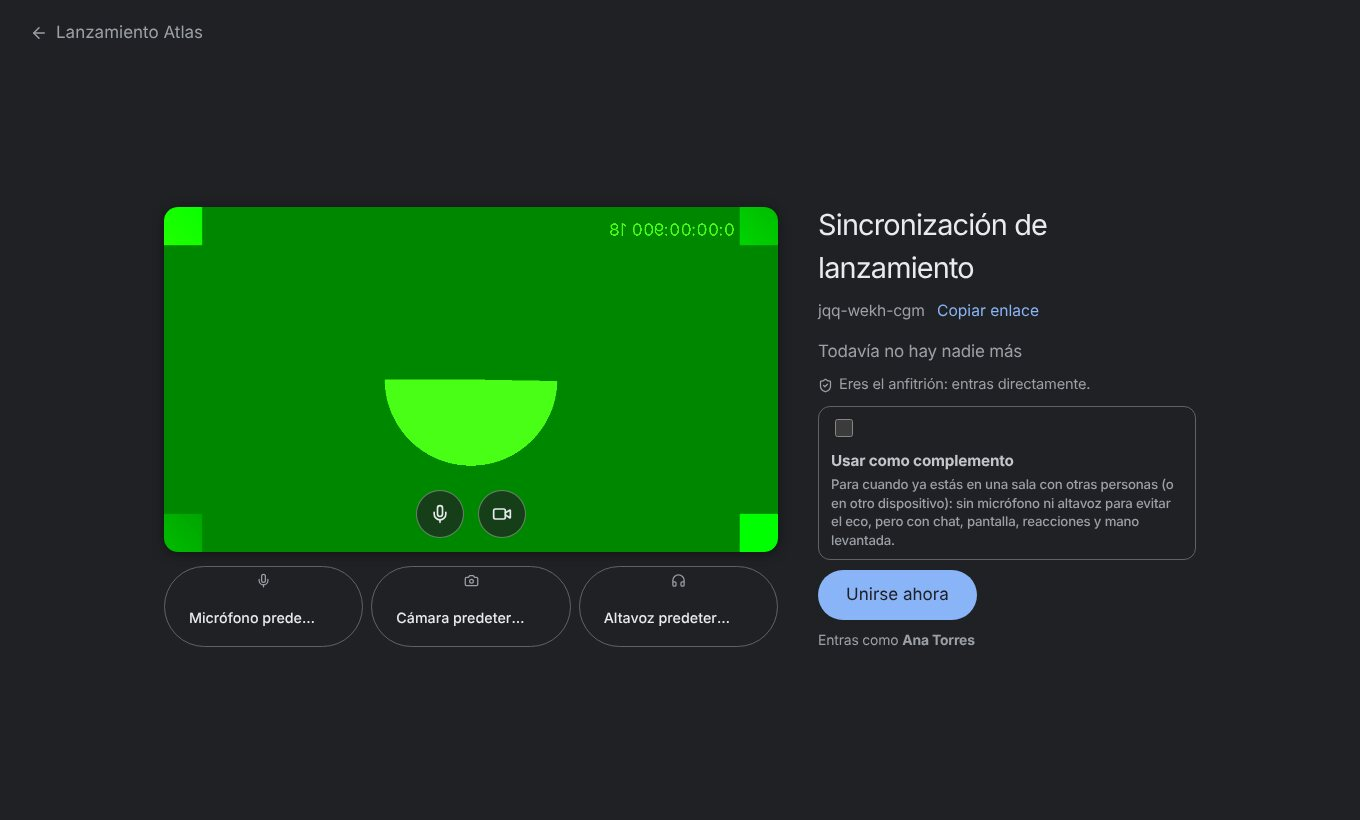
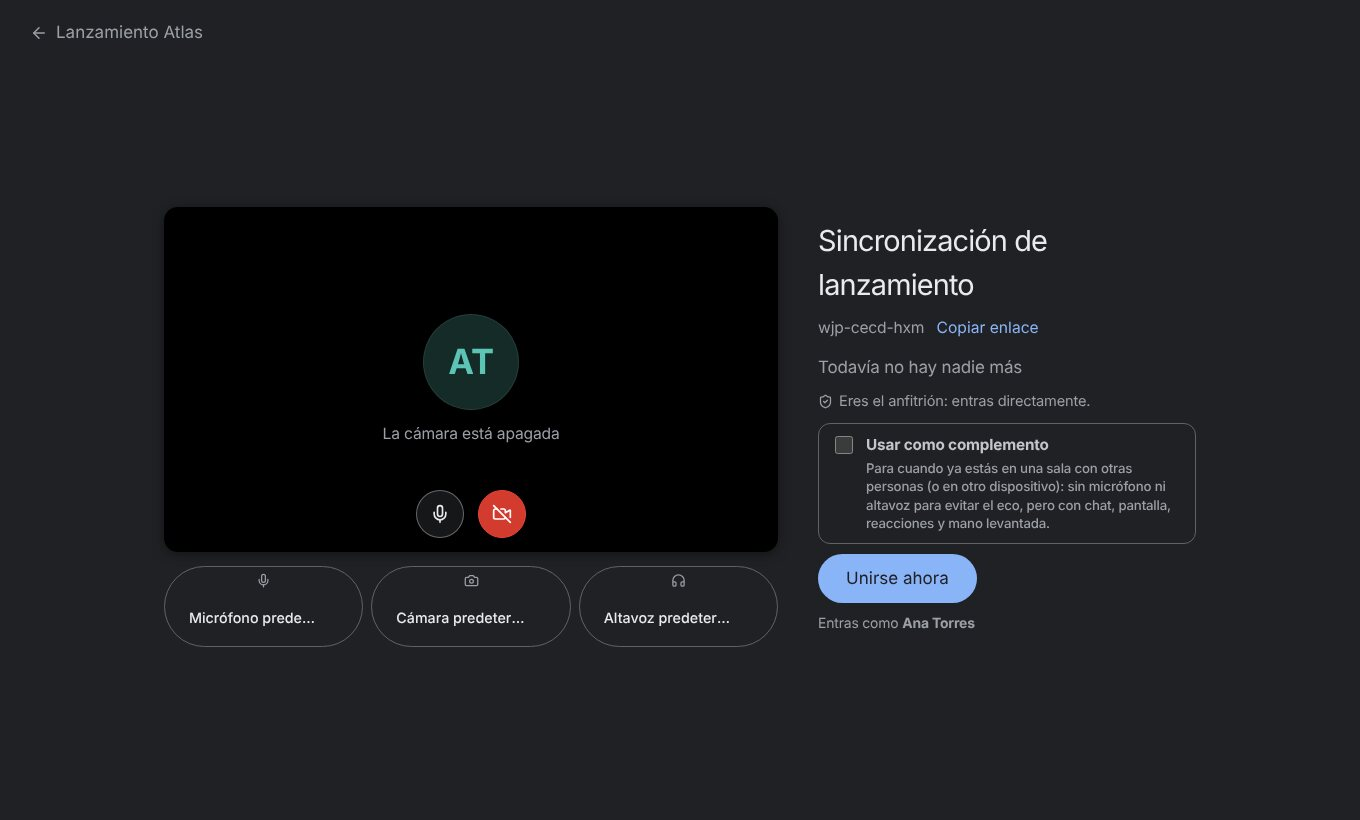
[NORAINST-32] README: capturas de llamada sin vídeo, CI en cada push y badges de Sonar solo cuando existan
Capturas nuevas con las cámaras apagadas (avatares), el CI se ejecuta en cualquier push, Sonar en develop/main (y PR con SonarCloud), insignias de calidad comentadas hasta que exista el análisis y guía de cuándo se ejecuta cada flujo. Ajustes de estilo de la llamada (avatares en miniaturas y casilla de complemento).

Changed region(s): [[0.0926, 0.2439, 0.8647, 0.7927]]

diff --git a/frontend/src/styles.css b/frontend/src/styles.css
@@ -1744,7 +1744,8 @@ body:has(.room-shell) .topbar-in { max-width: none; }
 .call-grid.mode-sidebar { grid-template-columns: minmax(0, 1fr) 200px; }
 .call-grid.mode-sidebar .call-strip { display: flex; flex-direction: column; gap: 10px; overflow-y: auto; }
 .call-grid.mode-sidebar .call-strip .ct { flex: 0 0 auto; width: 100%; aspect-ratio: 16 / 9; }
-.call-grid.mode-spotlight .ct-avatar img, .call-grid.mode-sidebar .call-strip .ct-avatar > *, .call-float .ct-avatar > * { transform: scale(0.7); }
+.call-grid.mode-spotlight .ct-avatar > *, .call-grid.mode-sidebar .call-strip .ct-avatar > *, .call-float .ct-avatar > * { transform: scale(0.6); }
+.call-grid.mode-spotlight .ct-avatar, .call-grid.mode-sidebar .call-strip .ct-avatar, .call-float .ct-avatar { margin-top: -22px; }
 
 @media (max-width: 760px) {
   .call-stage { padding: 8px 8px 76px; }
@@ -1939,5 +1940,6 @@ body:has(.room-shell) .topbar-in { max-width: none; }
 .calls-ico { color: var(--subtle); flex: none; }
 .calls-info { flex: 1 1 200px; min-width: 0; display: flex; flex-direction: column; gap: 2px; }
 .calls-info small { color: var(--subtle); display: flex; align-items: center; gap: 5px; flex-wrap: wrap; }
+.cj-check { flex-direction: row !important; }
 .cj-check input[type='checkbox'] { flex: none; width: 18px; height: 18px; margin-top: 2px; }
 .cj-check span { flex: 1; min-width: 0; }

diff --git a/README.md b/README.md
@@ -10,11 +10,14 @@ Salas colaborativas **temporales** para trabajar en equipo: archivos, pizarra, d
 **llamadas y videollamadas** y asistencia remota. Todo en tu propio servidor, con un solo comando.
 
 <p>
-  <a href="https://github.com/Tecsharp/Nora/actions/workflows/ci.yml"><img alt="CI" src="https://github.com/Tecsharp/Nora/actions/workflows/ci.yml/badge.svg" /></a>
-  <a href="https://sonarcloud.io/summary/new_code?id=Tecsharp_Nora"><img alt="Quality Gate" src="https://sonarcloud.io/api/project_badges/measure?project=Tecsharp_Nora&metric=alert_status" /></a>
-  <a href="https://sonarcloud.io/summary/new_code?id=Tecsharp_Nora"><img alt="Seguridad" src="https://sonarcloud.io/api/project_badges/measure?project=Tecsharp_Nora&metric=security_rating" /></a>
-  <a href="https://sonarcloud.io/summary/new_code?id=Tecsharp_Nora"><img alt="Mantenibilidad" src="https://sonarcloud.io/api/project_badges/measure?project=Tecsharp_Nora&metric=sqale_rating" /></a>
-  <!-- Cuando registres el proyecto en Coverity Scan (docs/CALIDAD.md), quita estos comentarios y pon tu número de proyecto:
+  <a href="https://github.com/Tecsharp/Nora/actions/workflows/ci.yml"><img alt="CI" src="https://github.com/Tecsharp/Nora/actions/workflows/ci.yml/badge.svg?branch=develop" /></a>
+  <!-- ── Insignias de calidad: se activan cuando exista el análisis (ver docs/CALIDAD.md, «Las insignias») ──
+  SonarQube propio: en tu proyecto → «Project Information» → «Get project badges» → copia las URL (incluyen un token).
+  SonarCloud (repositorio público): cambia KEY por tu clave de proyecto.
+  <a href="https://sonarcloud.io/summary/new_code?id=KEY"><img alt="Quality Gate" src="https://sonarcloud.io/api/project_badges/measure?project=KEY&metric=alert_status" /></a>
+  <a href="https://sonarcloud.io/summary/new_code?id=KEY"><img alt="Seguridad" src="https://sonarcloud.io/api/project_badges/measure?project=KEY&metric=security_rating" /></a>
+  <a href="https://sonarcloud.io/summary/new_code?id=KEY"><img alt="Mantenibilidad" src="https://sonarcloud.io/api/project_badges/measure?project=KEY&metric=sqale_rating" /></a>
+  Coverity Scan (cuando registres el proyecto): cambia PROJECT_ID.
   <a href="https://scan.coverity.com/projects/PROJECT_ID"><img alt="Coverity Scan" src="https://scan.coverity.com/projects/PROJECT_ID/badge.svg" /></a>
   -->
   <a href="LICENSE"><img alt="Licencia MIT" src="https://img.shields.io/badge/licencia-MIT-green" /></a>
@@ -98,12 +101,16 @@ Salas que **se borran solas** al expirar (o se conservan si tú quieres), roles 
 <td width="50%"><img src="docs/assets/chat.jpg" alt="Chat de la sala" /><br/><sub><b>Chat</b> · general, grupos y mensajes directos</sub></td>
 </tr>
 <tr>
-<td><img src="docs/assets/llamada-presentacion.jpg" alt="Llamada con una pantalla presentada" /><br/><sub><b>Llamadas</b> · pantalla presentada y personas a un lado</sub></td>
-<td><img src="docs/assets/llamada-mosaico.jpg" alt="Llamada en mosaico" /><br/><sub><b>Llamadas</b> · mosaico, reacciones y mano levantada</sub></td>
+<td><img src="docs/assets/calendario.jpg" alt="Calendario" /><br/><sub><b>Calendario</b> · eventos y recordatorios</sub></td>
+<td><img src="docs/assets/llamadas.jpg" alt="Herramienta Llamadas" /><br/><sub><b>Llamadas</b> · iniciar, unirse con código y ver las últimas</sub></td>
 </tr>
 <tr>
-<td><img src="docs/assets/calendario.jpg" alt="Calendario" /><br/><sub><b>Calendario</b> · eventos y recordatorios</sub></td>
-<td><img src="docs/assets/llamadas.jpg" alt="Herramienta Llamadas" /><br/><sub><b>Herramienta Llamadas</b> · iniciar, unirse con código y ver las últimas</sub></td>
+<td><img src="docs/assets/llamada-antes.jpg" alt="Antes de entrar a una llamada" /><br/><sub><b>Antes de entrar</b> · cámara, micrófono y modo complementario</sub></td>
+<td><img src="docs/assets/llamada-mosaico.jpg" alt="Llamada en mosaico" /><br/><sub><b>En la llamada</b> · mosaico, reacciones y mano levantada</sub></td>
+</tr>
+<tr>
+<td><img src="docs/assets/llamada-presentacion.jpg" alt="Llamada con una pantalla presentada" /><br/><sub><b>Presentar pantalla</b> · la presentación arriba y las personas a un lado</sub></td>
+<td><img src="docs/assets/llamada-chat.jpg" alt="Chat de la llamada" /><br/><sub><b>Chat de la llamada</b> · queda como grupo en Mensajes</sub></td>
 </tr>
 </table>
 
@@ -235,7 +242,7 @@ cd backend && mvn spring-boot:run
 cd frontend && npm install && npm run dev
 ```
 
-Cada cambio pasa por **GitHub Actions** (`CI`: backend, frontend, agente y `docker-compose.yml`) y se analiza con **SonarQube/SonarCloud**. Cómo enlazarlo sin Jenkins, y cómo añadir **Coverity**, en [docs/CALIDAD.md](docs/CALIDAD.md).
+Cada `push` ejecuta **GitHub Actions** (`CI`: backend, frontend, agente y `docker-compose.yml`) y los cambios de `develop`/`main` se analizan con **SonarQube/SonarCloud**. Cómo enlazarlo sin Jenkins, y cómo añadir **Coverity**, en [docs/CALIDAD.md](docs/CALIDAD.md).
 
 Los mensajes de commit siguen el formato `[TICKET] Descripción`, y las funciones nuevas se desarrollan en ramas `feature/*` que se integran en `develop` con *pull request*.
 

diff --git a/docs/CALIDAD.md b/docs/CALIDAD.md
@@ -10,7 +10,16 @@ Esta guía explica cómo pasar Nora por **SonarQube** y **Coverity** y cómo mos
 | `.github/workflows/sonar.yml` | Análisis de **SonarQube / SonarCloud**. Se salta solo (sin fallar) hasta que añadas el secreto `SONAR_TOKEN`. |
 | `sonar-project.properties` | Qué carpetas analiza Sonar (backend, frontend y agente) y qué excluye. |
 
-Cómo se ve el estado: pestaña **Actions** del repositorio. Las insignias del README se actualizan solas.
+## Cuándo se ejecuta
+
+| Flujo | Cuándo |
+|---|---|
+| **CI** | En **cada `git push`** (cualquier rama), en cada pull request y a mano. No hay que configurar nada: GitHub lo ejecuta al subir el archivo `.github/workflows/ci.yml`. |
+| **Calidad (SonarQube)** | En cada push a **`develop` o `main`**, en pull requests (solo SonarCloud) y a mano. En ramas `feature/*` no se lanza a propósito: SonarQube Community solo analiza la rama principal y una rama de trabajo la pisaría. |
+
+Dónde verlo: pestaña **Actions** del repositorio en GitHub (verde = bien, rojo = falló; pulsa la ejecución para ver el registro). Para lanzarlo sin hacer push: **Actions → elige el flujo → Run workflow**.
+
+> Los flujos solo se ejecutan si el archivo existe en la rama que subes. La insignia de CI del README apunta a `develop`: se pone verde cuando `develop` ya tiene `ci.yml` (al hacer merge de la rama) y se ha ejecutado una vez.
 
 ## SonarQube sin Jenkins
 
@@ -67,8 +76,8 @@ docker run -d --name sonarqube --restart unless-stopped -p 9000:9000 \
 | Insignia | De dónde sale | Estado |
 |---|---|---|
 | **CI** | `https://github.com/Tecsharp/Nora/actions/workflows/ci.yml/badge.svg` | Funciona en cuanto hay una ejecución del flujo `ci.yml`. |
-| **Quality Gate / Seguridad / Mantenibilidad** | `https://sonarcloud.io/api/project_badges/measure?project=Tecsharp_Nora&metric=alert_status` (otras métricas: `security_rating`, `sqale_rating`, `reliability_rating`, `bugs`) | Aparecen cuando existe el proyecto y se ha ejecutado el primer análisis (opción A). Con SonarQube propio, la insignia sale de **Project Information → Get project badges** de tu servidor. |
-| **Coverity** | `https://scan.coverity.com/projects/PROJECT_ID/badge.svg` | Desactivada hasta que registres el proyecto. |
+| **Quality Gate / Seguridad / Mantenibilidad** | SonarCloud: `https://sonarcloud.io/api/project_badges/measure?project=TU_CLAVE&metric=alert_status` (otras métricas: `security_rating`, `sqale_rating`, `reliability_rating`, `bugs`). SonarQube propio: **Project Information → Get project badges** (la URL lleva un token). | **Están comentadas en el README** (si no, mostrarían «Project not found»). Cuando exista el primer análisis, descomenta esas líneas del README y pon tu clave o tus URL. |
+| **Coverity** | `https://scan.coverity.com/projects/PROJECT_ID/badge.svg` | Comentada en el README hasta que registres el proyecto. |
 | Tecnologías y licencia | `shields.io` | Siempre. |
 
 Si el repositorio es **privado**, las insignias de `shields.io` y de SonarCloud no se ven fuera de GitHub; la de CI de GitHub sí se ve a quien tenga acceso.
